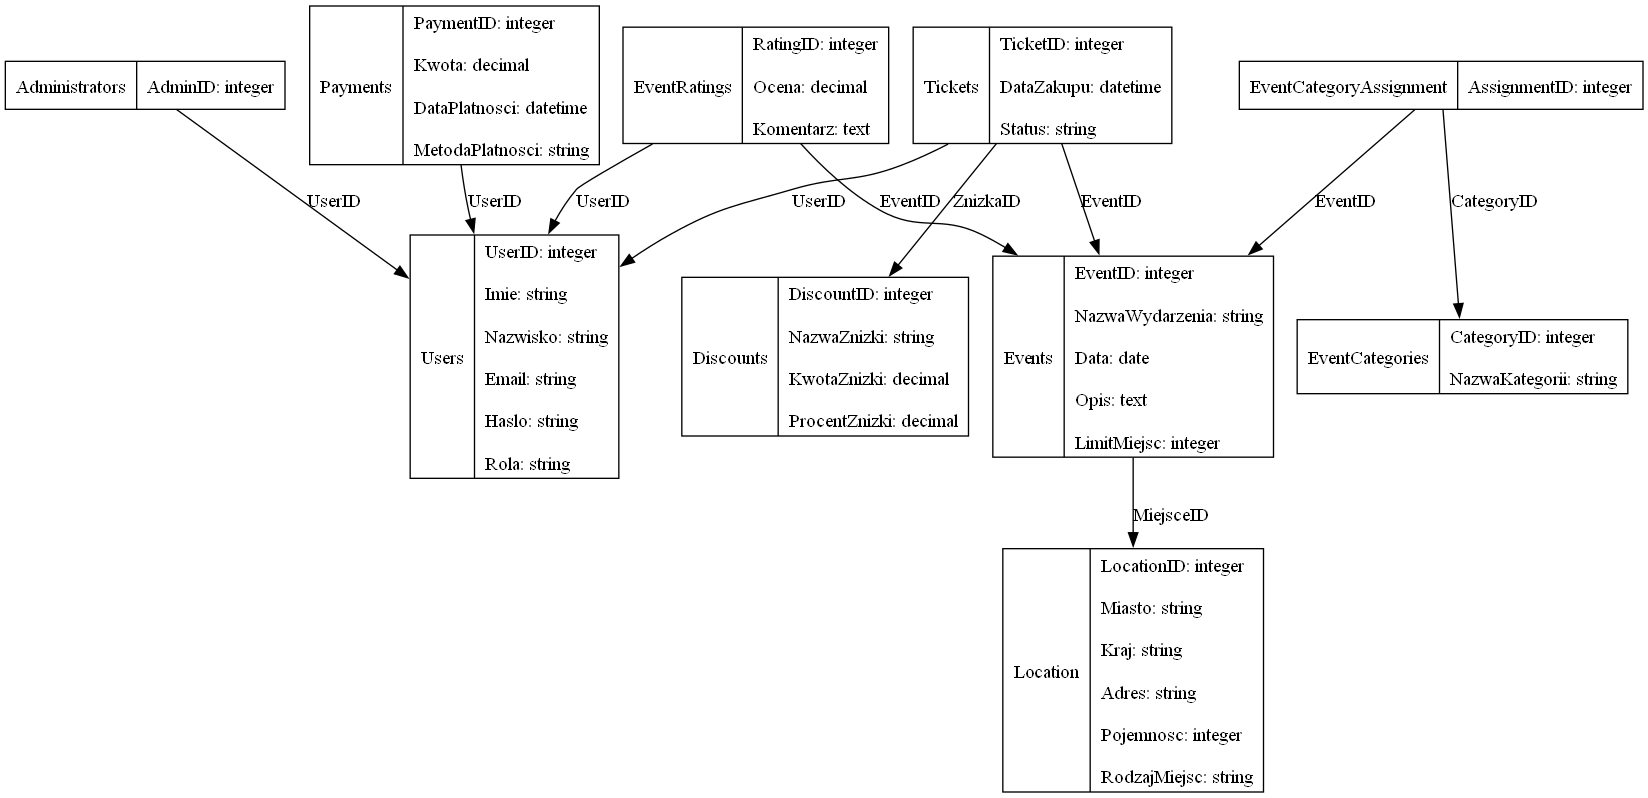
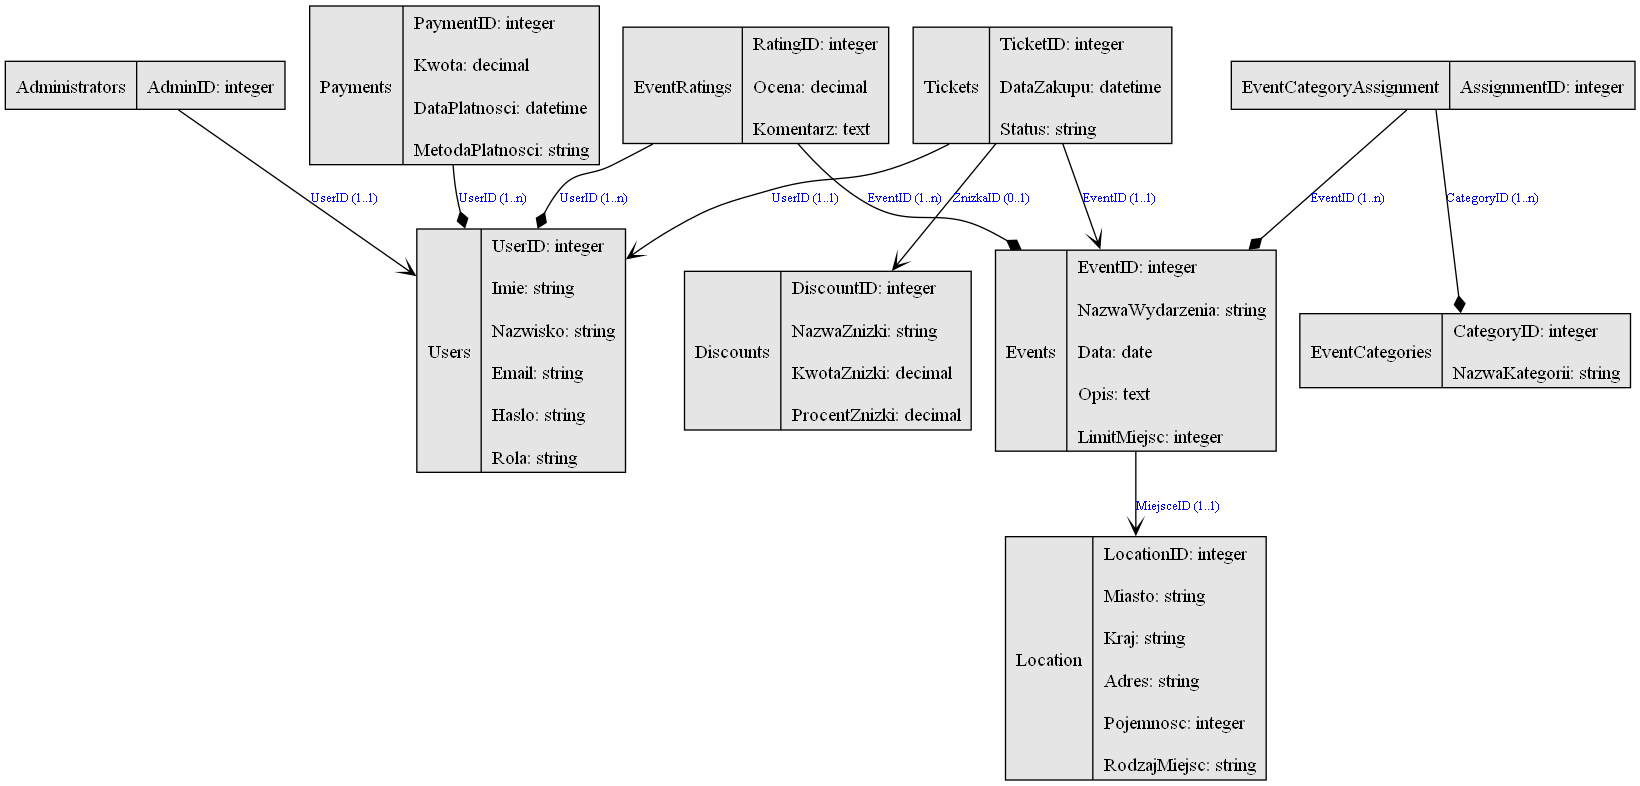
Modelowanie2

diff --git a/ecore_model.py b/ecore_model.py
@@ -1,0 +1,39 @@
+import pyecore.ecore as Ecore
+
+def create_ecore_model(entities):
+    # Tworzenie głównego pakietu modelu
+    package = Ecore.EPackage('myPackage')
+    eclasses = {}
+
+    # Definiowanie klas na podstawie dostarczonych encji
+    for entity in entities:
+        eclass = Ecore.EClass(entity.get('name'))
+        package.eClassifiers.append(eclass)
+        eclasses[entity.get('name')] = eclass
+
+    # Dodawanie atrybutów i referencji do klas
+    for entity in entities:
+        eclass = eclasses[entity.get('name')]
+        attributes = entity.find('attributes')
+        if attributes is not None:
+            for attr in attributes:
+                # Tworzenie typu danych na podstawie typu atrybutu
+                etype = Ecore.EDataType(attr.get('type'), instanceClassName=f"ecore.{attr.get('type')}")
+                if 'foreignKey' in attr.attrib:
+                    # Obsługa klucza obcego jako referencji między klasami
+                    referenced_class = eclasses[attr.get('references')]
+                    ereference = Ecore.EReference(attr.get('name'), eType=referenced_class)
+                    ereference.lowerBound = int(attr.get('min', '1'))  # Domyślna dolna granica to 1
+                    ereference.upperBound = -1 if attr.get('max', '1') == '*' else int(attr.get('max'))
+                    ereference.containment = False
+                    eclass.eStructuralFeatures.append(ereference)
+                else:
+                    # Tworzenie atrybutów dla klasy
+                    eattribute = Ecore.EAttribute(attr.get('name'), eType=etype)
+                    eattribute.lowerBound = 0 if attr.get('optional', 'false') == 'true' else 1
+                    eattribute.upperBound = 1
+                    eclass.eStructuralFeatures.append(eattribute)
+                    if 'primaryKey' in attr.attrib:
+                        eattribute.isID = True  # Oznaczenie atrybutu jako klucz główny
+
+    return package

diff --git a/uml_diagram.py b/uml_diagram.py
@@ -1,0 +1,25 @@
+from graphviz import Digraph
+import pyecore.ecore as Ecore
+
+def generate_uml_diagram(ecore_package):
+    dot = Digraph(comment='UML Diagram', format='png')
+    # Definiowanie stylów wierzchołków i krawędzi
+    dot.attr('node', shape='record', style='filled', fillcolor='gray90')
+    dot.attr('edge', fontsize='10', fontcolor='blue')
+
+    for eclass in ecore_package.eClassifiers:
+        # Generowanie opisu atrybutów dla każdej klasy
+        attribute_details = '\\l'.join([f"{feature.name}: {feature.eType.name}\\l" for feature in eclass.eStructuralFeatures if isinstance(feature, Ecore.EAttribute)])
+        # Dodawanie wierzchołka dla klasy
+        dot.node(eclass.name, f'{eclass.name}|{attribute_details}')
+
+        # Przetwarzanie powiązań (referencji) między klasami
+        for feature in eclass.eStructuralFeatures:
+            if isinstance(feature, Ecore.EReference):
+                # Określenie typu strzałki na podstawie górnej granicy krotności
+                arrowhead = 'vee' if feature.upperBound == 1 else 'crow' if feature.upperBound > 1 else 'obox' if feature.upperBound == 0 else 'diamond'
+                # Etykieta dla krawędzi uwzględniająca krotność
+                label = f"{feature.name} ({feature.lowerBound}..{('n' if feature.upperBound == -1 else feature.upperBound)})"
+                dot.edge(eclass.name, feature.eType.name, label=label, arrowhead=arrowhead)
+
+    return dot

diff --git a/pseudocode_generator.py b/pseudocode_generator.py
@@ -1,0 +1,17 @@
+import pyecore.ecore as Ecore
+
+def generate_pseudocode(ecore_package):
+    code = ""
+    # Iteracja przez wszystkie klasyfikatory (klasy) w pakiecie Ecore
+    for eclass in ecore_package.eClassifiers:
+        # Dodanie definicji klasy z nazwą
+        code += f"class {eclass.name}:\n"
+        # Sprawdzenie, czy klasa posiada jakiekolwiek atrybuty lub referencje
+        if not eclass.eStructuralFeatures:
+            code += "    pass\n"  # Dodanie 'pass' jeśli klasa jest pusta
+        # Iteracja przez cechy strukturalne klasy (atrybuty i referencje)
+        for feature in eclass.eStructuralFeatures:
+            # Formatowanie atrybutów i referencji z typami i ograniczeniami
+            multiplicity = f"{feature.lowerBound}..{('n' if feature.upperBound == -1 else feature.upperBound)}"
+            code += f"    {feature.name}: {feature.eType.name} ({multiplicity})\n"
+    return code

diff --git a/main.py b/main.py
@@ -1,0 +1,17 @@
+from xml_parser import parse_xml
+from ecore_model import create_ecore_model
+from uml_diagram import generate_uml_diagram
+from pseudocode_generator import generate_pseudocode
+
+def main():
+    root = parse_xml('metamodel.xml')
+    entities = root.findall('.//entity')
+    ecore_package = create_ecore_model(entities)
+    diagram = generate_uml_diagram(ecore_package)
+    diagram.render('uml_diagram', view=True)
+    pseudocode = generate_pseudocode(ecore_package)
+    with open('output_pseudocode.txt', 'w') as f:
+        f.write(pseudocode)
+
+if __name__ == "__main__":
+    main()

diff --git a/xml_parser.py b/xml_parser.py
@@ -1,0 +1,5 @@
+import xml.etree.ElementTree as ET
+
+def parse_xml(file_path):
+    with open(file_path, 'r', encoding='UTF-8') as file:
+        return ET.parse(file).getroot()
